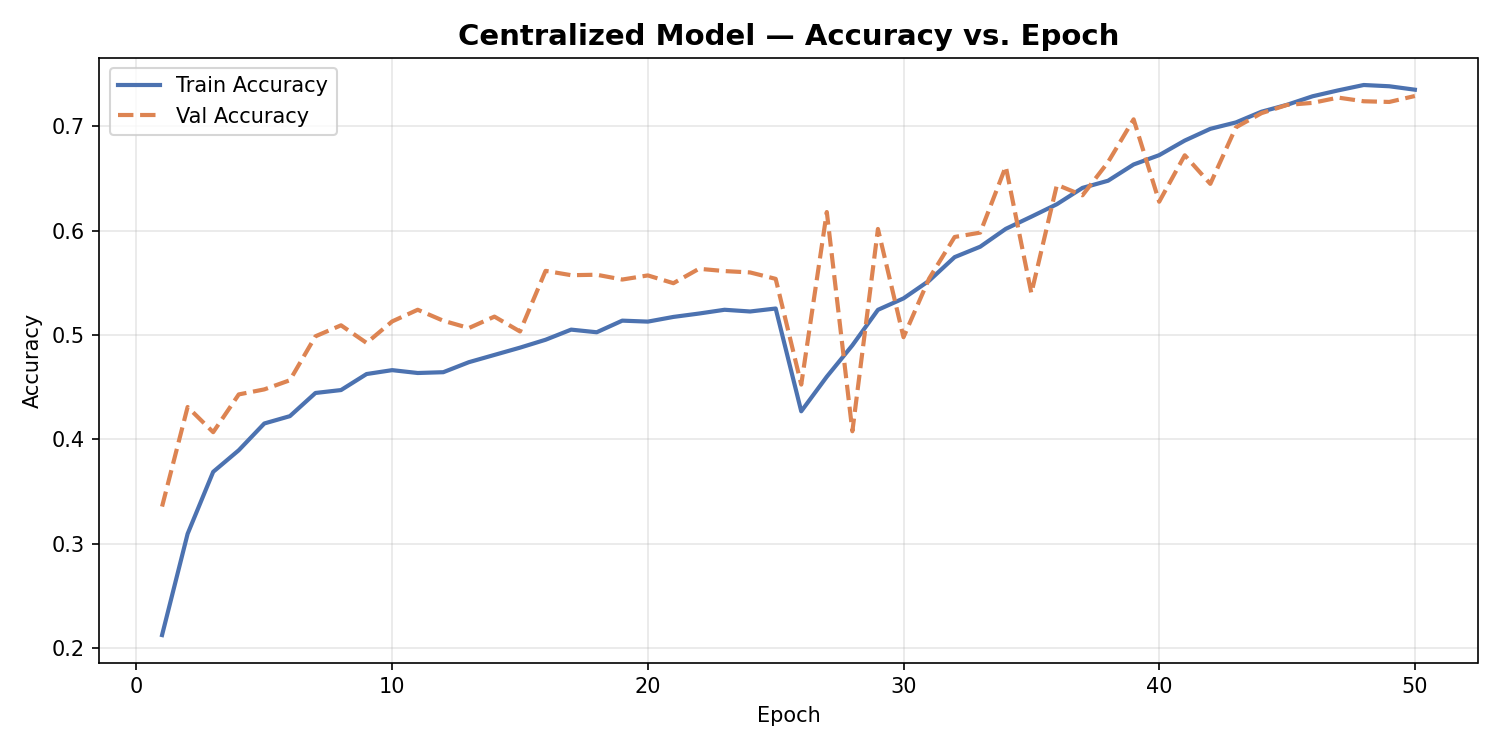
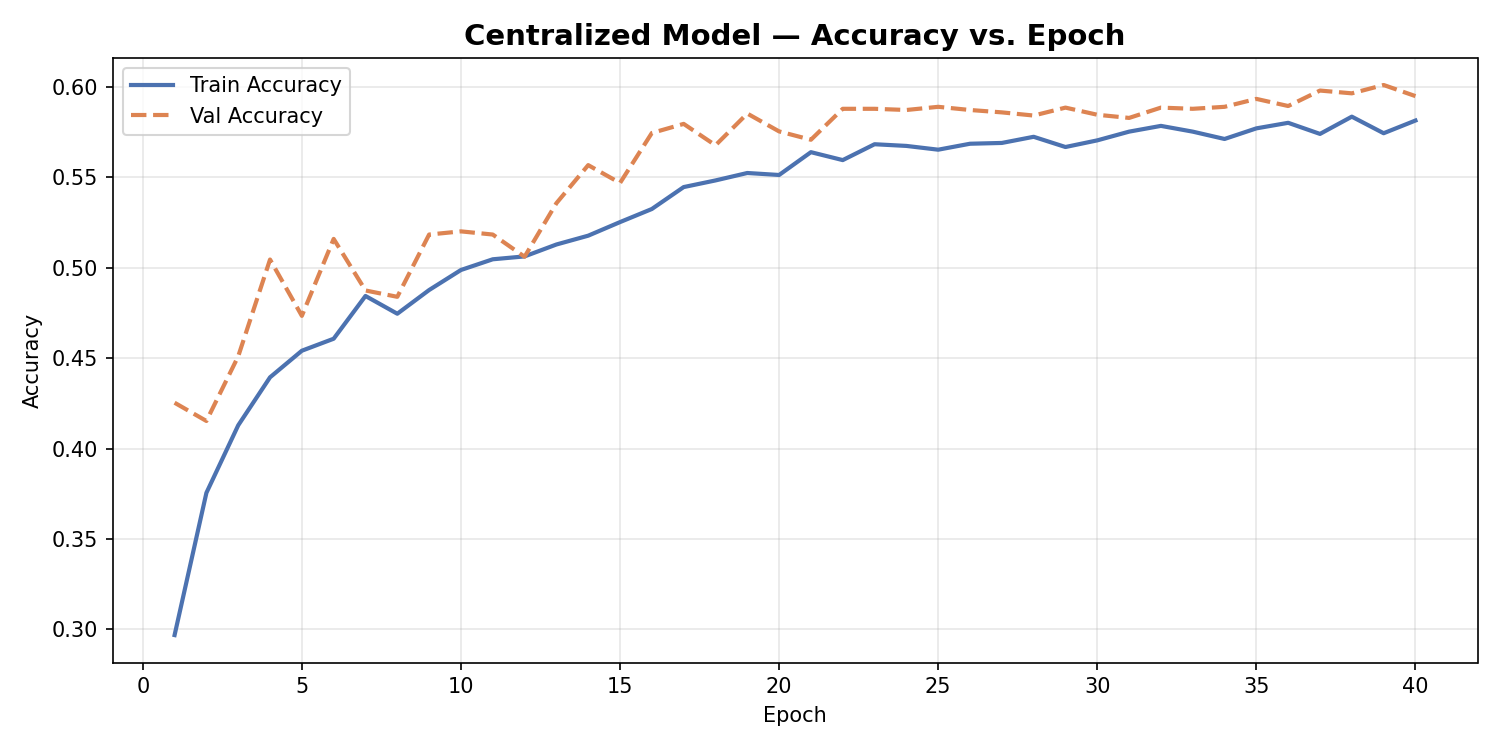
Shades-of-Gray Color Constancy add

diff --git a/train_local.py b/train_local.py
@@ -78,6 +78,7 @@ from sklearn.metrics import (
 from tensorflow.keras.preprocessing.image import ImageDataGenerator
 from tensorflow.keras.applications.efficientnet import preprocess_input
 
+from preprocessing.balancing import get_class_weights
 from models.model import build_model, unfreeze_model, sanity_check
 
 
@@ -229,25 +230,32 @@ def verify_dataset_integrity(df, name="dataset"):
 from models.model import build_model, unfreeze_model, get_preprocess_input
 
 
+from preprocessing.dataset_loader import DualInputGenerator, load_and_preprocess_metadata, remove_hair_cv
+
+
 # ============================================
 # DYNAMIC GENERATOR BUILDERS
 # ============================================
 
-def build_train_generator(df, batch_size, seed, model_name="densenet121"):
-    """Augmented training generator with backbone-matched preprocessing."""
-    prep_fn = get_preprocess_input(model_name)
+def build_train_generator(df, batch_size, seed, model_name="densenet121", enable_multimodal=True):
+    """Augmented training generator with DullRazor hair removal and dual-input metadata."""
+    base_prep = get_preprocess_input(model_name)
+    def combined_prep(img):
+        img = remove_hair_cv(img)
+        return base_prep(img)
+
     datagen = ImageDataGenerator(
-        preprocessing_function=prep_fn,
+        preprocessing_function=combined_prep,
         rotation_range=30,
         width_shift_range=0.15,
         height_shift_range=0.15,
         zoom_range=0.15,
         brightness_range=[0.8, 1.2],
         horizontal_flip=True,
-        vertical_flip=False,
+        vertical_flip=True,
         fill_mode="reflect",
     )
-    return datagen.flow_from_dataframe(
+    gen = datagen.flow_from_dataframe(
         df,
         directory=IMAGE_ROOT,
         x_col="image",
@@ -259,13 +267,21 @@ def build_train_generator(df, batch_size, seed, model_name="densenet121"):
         shuffle=True,
         seed=seed,
     )
+    meta_lookup = load_and_preprocess_metadata()
+    if enable_multimodal and meta_lookup:
+        gen = DualInputGenerator(gen, meta_lookup)
+    return gen
 
 
-def build_eval_generator(df, batch_size, seed, model_name="densenet121"):
-    """No-augmentation generator with backbone-matched preprocessing for val/test evaluation."""
-    prep_fn = get_preprocess_input(model_name)
-    datagen = ImageDataGenerator(preprocessing_function=prep_fn)
-    return datagen.flow_from_dataframe(
+def build_eval_generator(df, batch_size, seed, model_name="densenet121", enable_multimodal=True):
+    """No-augmentation generator with DullRazor hair removal and dual-input metadata."""
+    base_prep = get_preprocess_input(model_name)
+    def combined_prep(img):
+        img = remove_hair_cv(img)
+        return base_prep(img)
+
+    datagen = ImageDataGenerator(preprocessing_function=combined_prep)
+    gen = datagen.flow_from_dataframe(
         df,
         directory=IMAGE_ROOT,
         x_col="image",
@@ -277,6 +293,10 @@ def build_eval_generator(df, batch_size, seed, model_name="densenet121"):
         shuffle=False,
         seed=seed,
     )
+    meta_lookup = load_and_preprocess_metadata()
+    if enable_multimodal and meta_lookup:
+        gen = DualInputGenerator(gen, meta_lookup)
+    return gen
 
 
 from models.evaluate import evaluate_model, predict_batch_with_tta, compute_pr_auc_macro
@@ -590,15 +610,12 @@ def train(args):
 
     histories = [history1]
 
-    # ----------------------------------------
-    # PHASE 2: FINE-TUNE BACKBONE
-    # ----------------------------------------
     if args.finetune_epochs > 0:
         print(f"\n[Fine-tune] Unfreezing top backbone layers for {args.model_name} ({args.finetune_epochs} epochs)...")
-        model = unfreeze_model(model, fine_tune_at=None, learning_rate=5e-5, model_name=args.model_name)
+        model = unfreeze_model(model, fine_tune_at=None, learning_rate=1e-4, model_name=args.model_name)
 
         if args.lr_scheduler == "cosine":
-            callbacks_p2 = base_callbacks_p2 + [make_cosine_callback(initial_lr=5e-5, total_epochs=args.finetune_epochs)]
+            callbacks_p2 = base_callbacks_p2 + [make_cosine_callback(initial_lr=1e-4, total_epochs=args.finetune_epochs)]
         else:
             callbacks_p2 = base_callbacks_p2 + [
                 tf.keras.callbacks.ReduceLROnPlateau(

diff --git a/preprocessing/dataset_loader.py b/preprocessing/dataset_loader.py
@@ -1,5 +1,11 @@
 import os
-import cv2
+
+try:
+    import cv2
+    HAS_CV2 = True
+except ImportError:
+    HAS_CV2 = False
+
 import numpy as np
 import pandas as pd
 import tensorflow as tf
@@ -32,16 +38,28 @@ CLASS_NAMES = [
 
 
 # ============================================
-# DULLRAZOR HAIR REMOVAL PREPROCESSING
+# DULLRAZOR HAIR REMOVAL & SHADES-OF-GRAY COLOR CONSTANCY
 # ============================================
 
+def shades_of_gray_cv(image_np: np.ndarray, power: int = 6) -> np.ndarray:
+    """
+    Applies Shades-of-Gray (Minkowski p-norm, p=6) color constancy to normalize
+    camera lighting and white-balance skin lesion images.
+    """
+    try:
+        img_float = image_np.astype(np.float32)
+        illum_e = np.power(np.mean(np.power(np.abs(img_float), power), axis=(0, 1)), 1.0 / power)
+        illum_e = np.where(illum_e == 0, 1e-6, illum_e)
+        scale = np.mean(illum_e)
+        normalized = img_float / illum_e * scale
+        return np.clip(normalized, 0, 255).astype(np.float32)
+    except Exception:
+        return image_np.astype(np.float32)
+
+
 def remove_hair_cv(image_np: np.ndarray) -> np.ndarray:
-    """
-    DullRazor-style hair removal:
-    1. Blackhat morphological filter to isolate thin hair structures.
-    2. Binary thresholding to create a hair mask.
-    3. Telea inpainting to smooth out hair while preserving lesion texture.
-    """
+    if not HAS_CV2:
+        return image_np.astype(np.float32)
     try:
         image_uint8 = np.clip(image_np, 0, 255).astype(np.uint8)
         gray = cv2.cvtColor(image_uint8, cv2.COLOR_RGB2GRAY)
@@ -52,6 +70,7 @@ def remove_hair_cv(image_np: np.ndarray) -> np.ndarray:
         return inpainted.astype(np.float32)
     except Exception:
         return image_np.astype(np.float32)
+
 
 
 # ============================================
@@ -159,13 +178,18 @@ class DualInputGenerator(tf.keras.utils.Sequence):
 # ============================================
 
 def load_image(image_path, image_size=IMAGE_SIZE):
-    image = cv2.imread(image_path)
-    if image is None:
-        raise ValueError(f"Could not load image: {image_path}")
-    image = cv2.cvtColor(image, cv2.COLOR_BGR2RGB)
-    image = cv2.resize(image, (image_size, image_size))
-    image = remove_hair_cv(image)
-    return image.astype(np.float32)
+    if HAS_CV2:
+        image = cv2.imread(image_path)
+        if image is None:
+            raise ValueError(f"Could not load image: {image_path}")
+        image = cv2.cvtColor(image, cv2.COLOR_BGR2RGB)
+        image = cv2.resize(image, (image_size, image_size))
+        image = remove_hair_cv(image)
+        return image.astype(np.float32)
+    else:
+        from PIL import Image
+        img = Image.open(image_path).convert("RGB").resize((image_size, image_size))
+        return np.array(img, dtype=np.float32)
 
 
 # ============================================
@@ -195,6 +219,7 @@ def prepare_client_generators(
 
     base_prep = get_preprocess_input(model_name)
     def combined_prep(img):
+        img = shades_of_gray_cv(img)
         img = remove_hair_cv(img)
         return base_prep(img)
 

diff --git a/models/model.py b/models/model.py
@@ -191,23 +191,15 @@ class CategoricalFocalLoss(tf.keras.losses.Loss):
         return config
 
 
-def get_loss_function(label_smoothing=0.1):
+def get_loss_function(label_smoothing=0.02):
     """
-    Returns Focal Loss compatible with TF 2.10+.
-    Tries built-in CategoricalFocalCrossentropy first (TF >= 2.11),
-    falls back to custom implementation for TF 2.10.
+    Returns CategoricalCrossentropy with mild label smoothing (0.02)
+    to maximize overall top-1 accuracy while maintaining high ROC-AUC.
     """
-    try:
-        return tf.keras.losses.CategoricalFocalCrossentropy(
-            alpha=0.25, gamma=2.0,
-            from_logits=False, label_smoothing=label_smoothing,
-        )
-    except AttributeError:
-        # TF 2.10 — use custom implementation (identical math)
-        return CategoricalFocalLoss(
-            alpha=0.25, gamma=2.0, label_smoothing=label_smoothing,
-            name="focal_loss",
-        )
+    return tf.keras.losses.CategoricalCrossentropy(
+        label_smoothing=label_smoothing,
+        from_logits=False,
+    )
 
 
 # ============================================
@@ -258,10 +250,10 @@ def build_model(
     l2_strength=1e-4,
     learning_rate=5e-4,
     auc_name="auc",
-    use_cbam=True,
+    use_cbam=False,
     use_gem=True,
     pooling_mode="gem_gap",
-    label_smoothing=0.1,
+    label_smoothing=0.02,
     cbam_reduction_ratio=8,
     enable_multimodal=True,
 ):
@@ -284,6 +276,7 @@ def build_model(
     else:
         base_model = EfficientNetB0(weights="imagenet", include_top=False, input_shape=input_shape)
 
+    base_model._name = "backbone"
     base_model.trainable = False
     x = base_model(image_input)
 
@@ -390,6 +383,8 @@ def unfreeze_model(
     fine_tune_at = min(fine_tune_at, len(backbone_layers))
     for layer in backbone_layers[:fine_tune_at]:
         layer.trainable = False
+    for layer in backbone_layers[fine_tune_at:]:
+        layer.trainable = True
 
     if keep_batch_norm_frozen:
         for layer in backbone_layers:

diff --git a/run_server.py b/run_server.py
@@ -120,7 +120,7 @@ def _log(message):
         f.write(line + "\n")
 
 
-def _evaluate_global_test(weights, model_name="densenet121") -> dict:
+def _evaluate_global_test(weights, model_name="densenet121", use_tta=True) -> dict:
     test_gen = prepare_global_test_generator(
         GLOBAL_TEST_CSV,
         IMAGE_ROOT,
@@ -138,10 +138,13 @@ def _evaluate_global_test(weights, model_name="densenet121") -> dict:
     y_prob = []
     for i in range(len(test_gen)):
         x_batch, y_batch = test_gen[i]
-        if isinstance(x_batch, (list, tuple)):
-            y_pred = model.predict([x_batch[0], x_batch[1]], verbose=0)
+        if use_tta:
+            y_pred = predict_batch_with_tta(model, x_batch)
         else:
-            y_pred = model.predict(x_batch, verbose=0)
+            if isinstance(x_batch, (list, tuple)):
+                y_pred = model.predict([x_batch[0], x_batch[1]], verbose=0)
+            else:
+                y_pred = model.predict(x_batch, verbose=0)
         y_true.append(y_batch)
         y_prob.append(y_pred)
 
